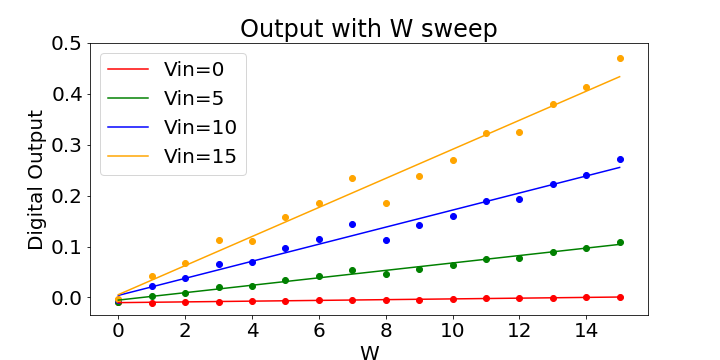
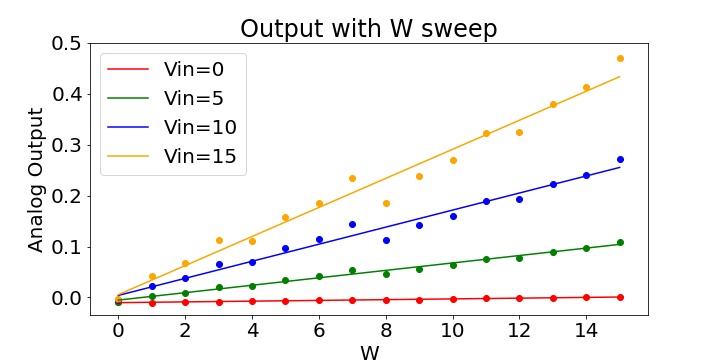
Add existing files

Changed region(s): [[0.0306, 0.3056, 0.0611, 0.7028]]

diff --git a/Circuit Simulation/Circuit_Results.py b/Circuit Simulation/Circuit_Results.py
@@ -35,7 +35,7 @@ multV=np.array(mult.T[[0,5,10,15]][:])
 matplotlib.rcParams.update({'font.size': 20})
 plt.figure(figsize=(10,5))
 y_bl=multW
-plt.ylabel('Digital Output')
+plt.ylabel('Analog Output')
 plt.xlabel('Vin')
 slope, intercept, r_value, p_value, std_err = stats.linregress(W,y_bl[0,:])
 line = slope*W+intercept
@@ -60,7 +60,7 @@ plt.savefig('/home/min/a/skodge/Project/GitHub/6T-SRAM-Multiplication/Circuit Si
 matplotlib.rcParams.update({'font.size': 20})
 plt.figure(figsize=(10,5))
 y_bl=multV
-plt.ylabel('Digital Output')
+plt.ylabel('Analog Output')
 plt.xlabel('W')
 slope, intercept, r_value, p_value, std_err = stats.linregress(W,y_bl[0,:])
 line = slope*W+intercept
